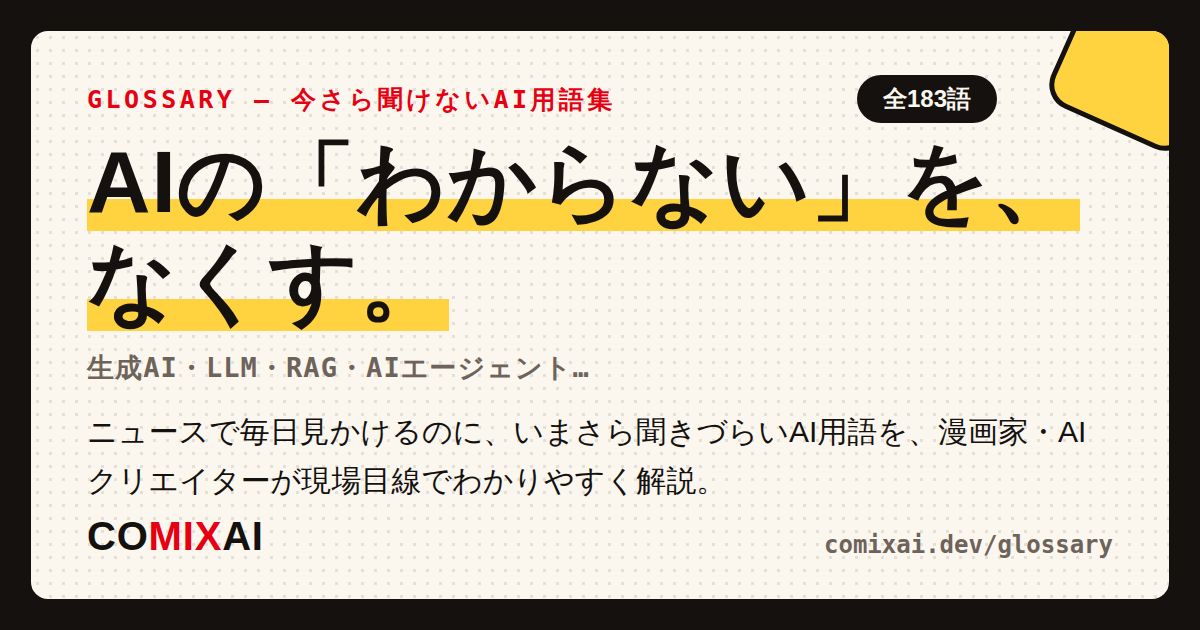
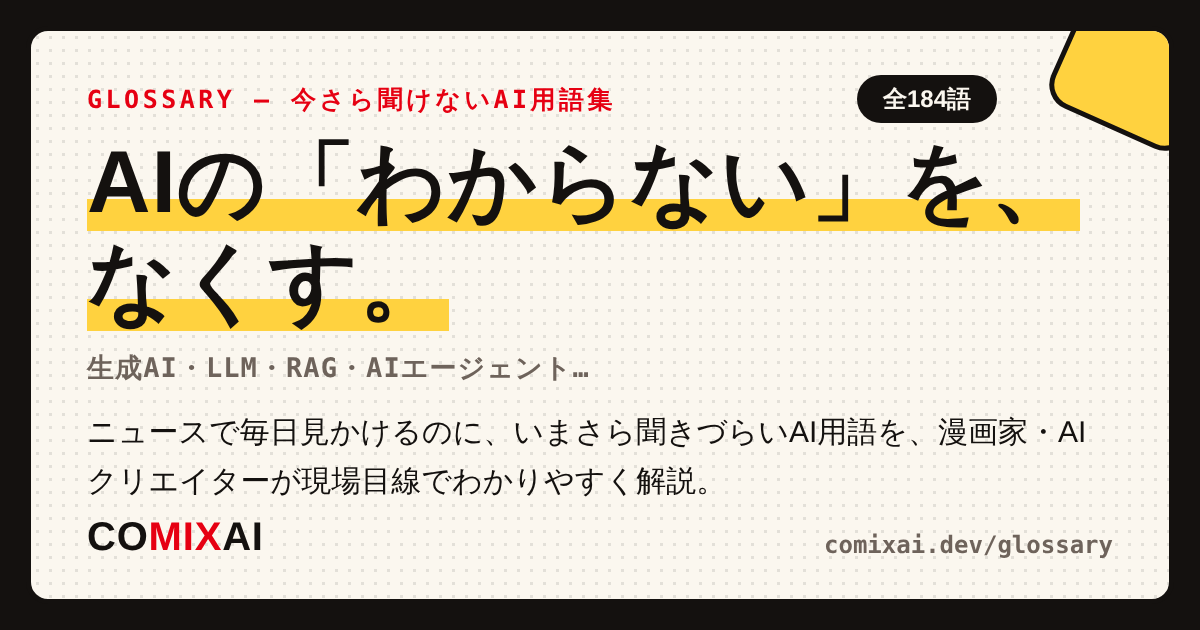
feat: 用語集に「AI半導体」を追加、Muse（Meta Muse）にMuse Wonderを追記
2026年10月12日、Microsoftが自社設計の第3世代AIチップ「Maia 300」を発表し、
各社が自前のチップへ移る動きが見出しに並んだため「AI半導体」を新規追加。
同じ日にMetaが公開したモデル「Muse Wonder」は、既存のMuseページの前提
（Muse Sparkで動く）を古くするため、追記のみで補足した。

- terms-wave4.ts に ai-chip を追加（+28語）
- diagrams.tsx に「汎用GPUと自社設計チップ」の図解を追加
- meta-muse に section 1本・FAQ 1問・relatedSlugs を追記（既存文は無変更）
- GLOSSARY_UPDATED と OGP（ai-chip.png / index.png）を更新

Claude-Session: https://claude.ai/code/session_013s3PaBcBV9Nh4iibjfCyyR

diff --git a/src/app/glossary/terms-wave4.ts b/src/app/glossary/terms-wave4.ts
@@ -1,5 +1,5 @@
 /* ============================================================
-   用語集 第4波：2026年9〜10月の話題語（+27語）
+   用語集 第4波：2026年9〜10月の話題語（+28語）
    ニュース見出しへの登場が増えているのに未収載だった語。
    AIバブル・Kimi・ヒューマノイドロボット・Claude Cowork・
    Pacing the Frontier（AI開発ペース調整）・ChatGPT Sketch・
@@ -8,7 +8,7 @@
    Googlebook・破滅ループ・自律型サイバー攻撃・Muse（Metaのエージェント）・
    宇宙データセンター・AIアバター・SI（AIの呼称変更）・話者分離・
    サンドボックス・dots（OpenAIの常駐エージェント）・電子透かし・超解像・
-   輸出規制・最高AI責任者（CAIO）・生成UI・バグバウンティ・報酬ハッキング。
+   輸出規制・最高AI責任者（CAIO）・生成UI・バグバウンティ・報酬ハッキング・AI半導体。
    方針は第3波と同じ：ベンダーを持ち上げず、事実ベースで、
    不確かな点は「2026年◯月時点」とぼかして書く。
    ============================================================ */
@@ -845,13 +845,21 @@ export const TERMS_WAVE4: GlossaryTerm[] = [
           "備えは3つで足ります。①つなぐアカウントは最小限から始める（いきなり決済やメールの全権を渡さない）。②アプリは自動更新にして、直しが出たらすぐ当てる。③重要な操作について「実行前に確認する」設定があれば必ず使う。エージェントは便利さと危うさが同じ場所から出てくる道具なので、「速く任せる」より「戻せる形で任せる」ほうが、結果的に長く使えます。",
         ],
       },
+      {
+        heading: "中身のモデルが「Muse Wonder」に変わります（追記）",
+        body: [
+          "2026年10月12日、Metaが新しいモデル「Muse Wonder」と、上位版の「Wonder Full」を公開しました。同社はこれを初のフロンティアモデル——つまり各社の最前線と同じ土俵に並ぶモデル——と位置づけています。Meta Superintelligence Labsを率いるAlexandr Wang氏は、これまでで最大かつ最も高性能なモデルだと説明しました。上の節までで触れてきたMuseは、公開時点では「Muse Spark」というモデルで動いていましたが、今後はこのMuse Wonderが載っていくと発表されています。",
+          "売りにしているのは記憶です。Metaはこれを「アクティブメモリ」と呼び、やり取りが長く続いても前の文脈を保ち続ける力を強調しています。同社が自分で作ったMemoryBenchという試験や、長時間かかる開発作業の試験で他社の最新モデルを上回ったとしていますが、これはいずれも自社測定で、外部による検証はまだ出ていません。第三者がまとめている総合指標では各社と大きな差はついていないとも報じられており、数字の順位が固まるのはこれからです（なお、比較対象にはAnthropicのモデルが含まれます。当サイト自体がAnthropic製のClaude Codeで作られているため、その点は割り引いてお読みください）。",
+          "読み方としては、記憶はエージェントにとって飾りではない、という点が大事です。Museは「答える」ではなく「代わりにやる」道具なので、前回どこまで進んだかを覚えていられるかどうかが、そのまま使い勝手になります。とはいえ日本から使う側の関心事は、順位よりも提供時期と、何につなげるかのほうです。2026年10月時点でも日本での提供開始は公表されていません。",
+        ],
+      },
     ],
     links: [
       { label: "Claude Coworkで業務改善を半自動化してみた～毎朝のAIニュース収集から改善提案まで～", href: "https://note.com/aiux_unite/n/n169ba6bd6c1e" },
       { label: "体験ゲーム：AIエージェントに任せてみた（任せた結果がどう転ぶかを6つの結末で）", href: "/agent" },
       { label: "体験ゲーム：プロンプトインジェクション（エージェントが騙される瞬間を体感）", href: "/keibi" },
     ],
-    relatedSlugs: ["ai-agent", "agentic-commerce", "ai-glasses", "multi-agent", "llm"],
+    relatedSlugs: ["ai-agent", "agentic-commerce", "ai-glasses", "multi-agent", "llm", "memory", "benchmark"],
     faq: [
       {
         q: "Museは日本で使えますか？",
@@ -865,8 +873,12 @@ export const TERMS_WAVE4: GlossaryTerm[] = [
         q: "Muse Charmとは何ですか？",
         a: "Museを使うためにMetaが発表した、キーホルダー型の小型端末です。約2インチの画面と指紋センサーを備え、画面に出るアバターの見た目や声を選べます。2026年内の発売予定で、価格は2026年9月時点では未定です。",
       },
+      {
+        q: "Muse Wonderとは何ですか？",
+        a: "2026年10月12日にMetaが公開したモデルで、同社初のフロンティアモデルと位置づけられています。上位版の「Wonder Full」もあわせて公開されました。長いやり取りでも文脈を保ち続ける「アクティブメモリ」を売りにしており、今後エージェントのMuseにも載っていくと発表されています。性能の比較は自社測定で、外部検証はこれからです。",
+      },
     ],
-    lastUpdated: "2026-09-25",
+    lastUpdated: "2026-10-14",
   },
   {
     slug: "space-data-center",
@@ -1667,5 +1679,64 @@ export const TERMS_WAVE4: GlossaryTerm[] = [
       },
     ],
     lastUpdated: "2026-10-13",
+  },
+  {
+    slug: "ai-chip",
+    term: "AI半導体",
+    yomi: "えーあいはんどうたい",
+    en: "AI Chip / AI Accelerator",
+    seoHead: "AI半導体とは？GPUと自社開発チップの違い",
+    extraKeywords: ["AI半導体 とは", "AIチップ", "AIアクセラレータ", "TPU", "Trainium", "Maia"],
+    category: "基礎知識",
+    short:
+      "AIの計算を担う半導体の総称。NVIDIAのGPUが事実上の標準だが、GoogleやMicrosoftなどの大手が自社設計のチップを増やしており、「どのチップで動かすか」が費用と電力を左右するようになった。",
+    body: [
+      "AI半導体は、AIの計算を引き受けるチップ全般を指す呼び方です。大きく2種類あります。ひとつは汎用のGPUで、もともと映像処理用に作られたものがAIに転用され、いまも事実上の標準です。NVIDIAやAMDが作り、買えば誰でも使えます。もうひとつが、用途を絞って設計された専用チップ（ASIC）です。GoogleのTPU、Amazonの学習向けTrainiumと推論向けInferentia、MicrosoftのMaia、MetaのMTIAなどがこれにあたります。汎用のGPUが「何にでも使える万能工具」だとすると、専用チップは「その作業だけのために作った治具」です。速さそのものより、同じ電力でどれだけ処理できるかで差をつけにいくのが特徴です。",
+      "2026年10月12日、Microsoftが米サンノゼで開かれたOCP Global Summitで、自社設計のAIチップの第3世代「Maia 300」を発表しました。すでに動いているMaia 100・200と合わせ、翌年から大規模に展開するとしています。主な用途は推論——つまり、学習済みのAIが実際に答えを返す側の計算です。報道の見出しがそろって「NVIDIAへの依存を下げる」となっているのはそのためで、各社が自分のサービスを自分のチップで動かす方向に動いていることを示しています。ただし性能は同社の自己申告で、外部による検証はまだ出ていません。学習用まで含めて買うのをやめるとは見られていない点も、あわせて押さえておくところです。",
+    ],
+    sections: [
+      {
+        heading: "GPUと自社設計チップは、何が違う？",
+        body: [
+          "いちばん大きな違いは、守備範囲です。GPUは学習にも推論にも使え、どんなモデルでも動かせます。研究の途中でやり方が変わっても、同じ機械で試せるのが強みです。対して自社設計のチップは、自分たちが実際に動かしているモデルの計算の形に合わせて設計されています。処理の種類を絞るぶん、同じ電力でより多くの処理をこなせる、というのが各社の狙いです。",
+          "もうひとつ、利用者から見て重要なのは「売られているかどうか」です。GPUは買えますが、自社設計のチップの多くは外販されず、その会社のクラウドやサービスの内側で動いています。つまり私たちは、チップを選んでいるのではなく、クラウドやサービスを選んだ結果として、知らないうちにどれかのチップを使っています。「どのチップか」は仕様表の話ではなく、どこと契約しているかの話になりつつある、ということです。",
+        ],
+      },
+      {
+        heading: "なぜ各社が自分で作りはじめたのか",
+        body: [
+          "理由は3つに整理できます。①供給——最先端のGPUは世界中で取り合いになり、欲しいときに欲しいだけ手に入るとは限りません。②費用——AIの利用が増えるほど、推論の計算がそのまま運営費になります。自前のチップで単価を下げられれば、サービスの値段と利益に直結します。③電力——データセンターの規模はいま、置ける土地より引ける電力で決まります。だから「1メガワットあたりどれだけ処理できたか」という測り方が、速さと並ぶ指標として出てくるようになりました。",
+          "いっぽうで、置き換えが全部進むとは見られていません。学習とはやることが違う推論から置き換えが始まっているのも、工夫の余地が大きいのが推論側だからです。用途ごとに向くチップが違う以上、各社とも自社チップと外部のGPUを併用する形が当分続く、という見方が一般的です。",
+        ],
+      },
+      {
+        heading: "ニュースの数字をどう読むか",
+        body: [
+          "新しいチップの発表では、だいたい「前の世代の◯倍」「他社のシステムより◯%多い」といった数字が出ます。読むときの注意は3つです。まず、ほとんどが自社測定である点。測定条件を選べる側が出した数字なので、第三者の検証が出てくるまで順位は確定しません。次に、何と比べているか。前の世代と比べているのか、他社と比べているのかで意味がまったく違います。最後に、学習用か推論用か。同じ「AI半導体」でも、この2つは別の競技です。",
+          "実務の目線では、チップの型番そのものより「必要なときに確保できるか」「月いくらになるか」のほうが先に効きます。発表の数字は、各社がどこで戦おうとしているかを知るための地図として読むくらいが、ちょうどよい距離感です。",
+        ],
+      },
+    ],
+    links: [
+      { label: "連載「AI時代の流行と本質」シリーズ紹介", href: "/manga/honshitsu" },
+      { label: "AI歴史絵巻（GPUがディープラーニングを呼び込んだ流れ）", href: "/history" },
+      { label: "用語：データセンター（チップを並べて動かす場所）", href: "/glossary/data-center" },
+    ],
+    relatedSlugs: ["gpu", "nvidia", "data-center", "inference", "export-control"],
+    faq: [
+      {
+        q: "AI半導体とは何ですか？",
+        a: "AIの計算を担う半導体の総称です。何にでも使える汎用のGPU（NVIDIAなど）と、用途を絞って設計された専用チップ（GoogleのTPU、MicrosoftのMaiaなど）に大きく分かれます。後者は速さより、同じ電力でどれだけ処理できるかで差をつけにいく設計です。",
+      },
+      {
+        q: "GPUとどう違うのですか？",
+        a: "GPUはAI半導体の一種です。学習にも推論にも使えて外部に売られているのがGPU、自分たちのサービスの計算に合わせて設計され、多くは外販されないのが自社設計チップ、という関係になります。",
+      },
+      {
+        q: "自社設計のチップは自分でも使えますか？",
+        a: "多くは単体では売られていません。ただし、そのクラウドやサービスを使っていれば、知らないうちに裏側で動いていることがあります。利用者が選んでいるのはチップではなく、どこと契約するかだと考えると実態に近くなります。",
+      },
+    ],
+    lastUpdated: "2026-10-14",
   },
 ];

diff --git a/src/app/glossary/diagrams.tsx b/src/app/glossary/diagrams.tsx
@@ -1763,6 +1763,22 @@ const DIAGRAMS: Record<string, { caption: string; render: () => React.ReactNode 
       </Svg>
     ),
   },
+  "ai-chip": {
+    caption: "同じ仕事でも、どのチップで動かすかで費用と電力が変わる",
+    render: () => (
+      <Svg h={272} title="AI半導体の種類と自社設計チップの図解">
+        <T x={300} y={24} text="AI半導体＝AIの計算を担うチップの総称" size={13.5} color={INK} />
+        <B x={30} y={40} w={250} h={58} label="汎用のGPU" sub="NVIDIAなど・買って使える" />
+        <B x={320} y={40} w={250} h={58} label="自社設計のチップ" sub="Google TPU・Microsoft Maia" fill={YELLOW} />
+        <AV x={155} y1={102} y2={132} />
+        <AV x={445} y1={102} y2={132} />
+        <B x={30} y={134} w={250} h={58} label="何にでも使える" sub="学習にも推論にも" />
+        <B x={320} y={134} w={250} h={58} label="用途を絞って効率を上げる" sub="多くは外販されない" />
+        <T x={300} y={224} text="電力あたりどれだけ処理できたか、が新しい物差し" size={13.5} color={INK} />
+        <T x={300} y={252} text="2026年10月、Microsoftが第3世代の自社チップ「Maia 300」を発表" size={13} />
+      </Svg>
+    ),
+  },
 };
 
 export function hasDiagram(slug: string): boolean {

diff --git a/src/app/glossary/data.ts b/src/app/glossary/data.ts
@@ -55,7 +55,7 @@ export interface GlossaryTerm {
   secret?: { href: string; title: string; desc: string; cta?: string };
 }
 
-export const GLOSSARY_UPDATED = "2026-10-13";
+export const GLOSSARY_UPDATED = "2026-10-14";
 
 /* トップページのチップと一覧の「まずはこの12語」に出す代表用語 */
 export const FEATURED_SLUGS = [
